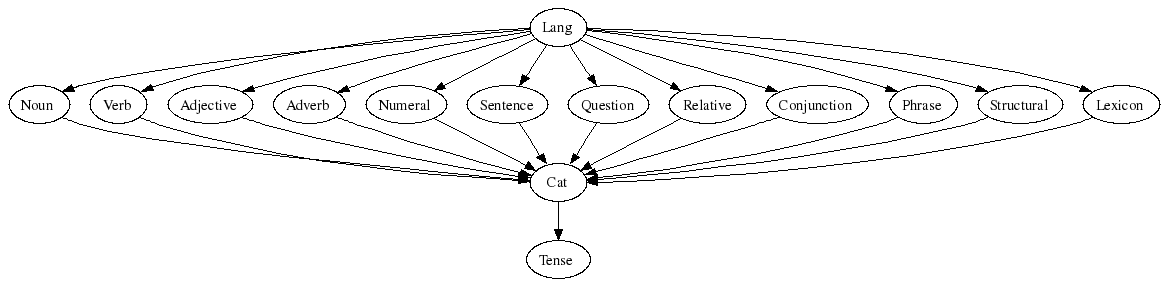
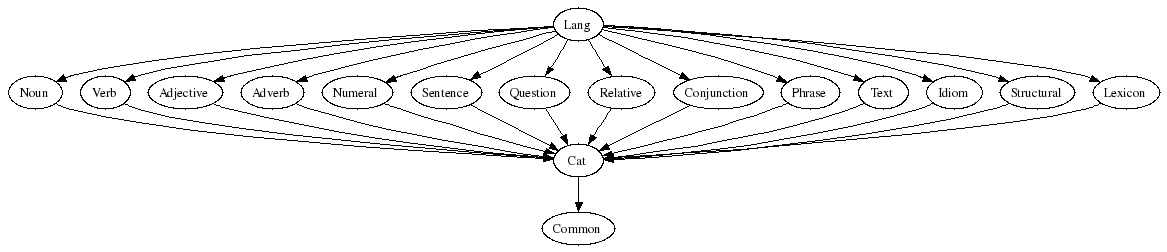
documenting new API structure

diff --git a/resource-1.0/doc/Resource-HOWTO.html b/resource-1.0/doc/Resource-HOWTO.html
@@ -7,7 +7,7 @@
 <P ALIGN="center"><CENTER><H1>Resource grammar writing HOWTO</H1>
 <FONT SIZE="4">
 <I>Author: Aarne Ranta &lt;aarne (at) cs.chalmers.se&gt;</I><BR>
-Last update: Tue Feb  7 09:22:12 2006
+Last update: Tue Feb 21 16:34:52 2006
 </FONT></CENTER>
 
 <P></P>
@@ -101,6 +101,8 @@ one of a small number of different types). Thus we have
 <LI><CODE>Relative</CODE>: construction of relative clauses
 <LI><CODE>Conjunction</CODE>: coordination of phrases
 <LI><CODE>Phrase</CODE>: construction of the major units of text and speech
+<LI><CODE>Text</CODE>: construction of texts as sequences of phrases
+<LI><CODE>Idiom</CODE>: idiomatic phrases such as existentials
 </UL>
 
 <A NAME="toc3"></A>
@@ -346,8 +348,8 @@ package.
 </P>
 <UL>
 <LI><CODE>ParamX</CODE>: parameter types used in many languages
-<LI><CODE>TenseX</CODE>: implementation of the logical tense, anteriority, 
-     and polarity parameters
+<LI><CODE>CommonX</CODE>: implementation of the categories $Text$ and $Phr$, as well as of
+     the logical tense, anteriority, and polarity parameters
 <LI><CODE>Coordination</CODE>: operations to deal with lists and coordination
 <LI><CODE>Prelude</CODE>: general-purpose operations on strings, records,
       truth values, etc.
@@ -566,13 +568,13 @@ are only found in the comments of the modules.
 <A NAME="toc15"></A>
 <H3>The category system</H3>
 <UL>
+<LI><A HREF="gfdoc/Common.html">Common</A>, <A HREF="../common/CommonX.gf">CommonX</A>
 <LI><A HREF="gfdoc/Cat.html">Cat</A>, <A HREF="gfdoc/CatGer.gf">CatGer</A>
 </UL>
 
 <A NAME="toc16"></A>
 <H3>Phrase category modules</H3>
 <UL>
-<LI><A HREF="gfdoc/Tense.html">Tense</A>, <A HREF="../german/TenseGer.gf">TenseGer</A>
 <LI><A HREF="gfdoc/Noun.html">Noun</A>, <A HREF="../german/NounGer.gf">NounGer</A>
 <LI><A HREF="gfdoc/Adjective.html">Adjective</A>, <A HREF="../german/AdjectiveGer.gf">AdjectiveGer</A>
 <LI><A HREF="gfdoc/Verb.html">Verb</A>, <A HREF="../german/VerbGer.gf">VerbGer</A>
@@ -583,6 +585,8 @@ are only found in the comments of the modules.
 <LI><A HREF="gfdoc/Relative.html">Relative</A>, <A HREF="../german/RelativeGer.gf">RelativeGer</A>
 <LI><A HREF="gfdoc/Conjunction.html">Conjunction</A>, <A HREF="../german/ConjunctionGer.gf">ConjunctionGer</A>
 <LI><A HREF="gfdoc/Phrase.html">Phrase</A>, <A HREF="../german/PhraseGer.gf">PhraseGer</A>
+<LI><A HREF="gfdoc/Text.html">Text</A>, <A HREF="../common/TextX.gf">TextX</A>
+<LI><A HREF="gfdoc/Idiom.html">Idiom</A>, <A HREF="../german/IdiomGer.gf">IdiomGer</A>
 <LI><A HREF="gfdoc/Lang.html">Lang</A>, <A HREF="../german/LangGer.gf">LangGer</A>
 </UL>
 

diff --git a/resource-1.0/doc/gfdoc/Common.html b/resource-1.0/doc/gfdoc/Common.html
@@ -2,19 +2,19 @@
 <HTML>
 <HEAD>
 <META NAME="generator" CONTENT="http://txt2tags.sf.net">
-<TITLE> Tense, Polarity, and Anteriority</TITLE>
+<TITLE> Infrastructure with common implementations.</TITLE>
 </HEAD><BODY BGCOLOR="white" TEXT="black">
-<P ALIGN="center"><CENTER><H1> Tense, Polarity, and Anteriority</H1>
+<P ALIGN="center"><CENTER><H1> Infrastructure with common implementations.</H1>
 <FONT SIZE="4">
 <I>Author: </I><BR>
-Last update: Tue Feb 21 16:23:54 2006
+Last update: Tue Feb 21 16:23:52 2006
 </FONT></CENTER>
 
 <P></P>
 <HR NOSHADE SIZE=1>
 <P></P>
   <UL>
-  <LI><A HREF="#toc1">Tense, Polarity, and Anteriority</A>
+  <LI><A HREF="#toc1">Infrastructure with common implementations.</A>
   </UL>
 
 <P></P>
@@ -26,19 +26,22 @@ gfdoc - a rudimentary GF document generator.
 (c) Aarne Ranta (<A HREF="mailto:aarne@cs.chalmers.se">aarne@cs.chalmers.se</A>) 2002 under GNU GPL.
 </P>
 <A NAME="toc1"></A>
-<H1>Tense, Polarity, and Anteriority</H1>
+<H1>Infrastructure with common implementations.</H1>
 <P>
 This module defines the abstract parameters of tense, polarity, and
-anteriority, which are used in <A HREF="Tensed.html">Tensed</A> to generate different
+anteriority, which are used in <A HREF="Phrase.html">Phrase</A> to generate different
 forms of sentences. Together they give 2 x 4 x 4 = 16 sentence forms.
 These tenses are defined for all languages in the library. More tenses
 can be defined in the language extensions, e.g. the <I>passé simple</I> of
 Romance languages.
 </P>
 <PRE>
-    abstract Tense = {
+    abstract Common = {
     
       cat
+        Text ;   -- text consisting of several phrases
+        Phr ;    -- phrase in a text                    e.g. "But be quiet my darling."
+    
         Pol ;
         Tense ;
         Ant ;
@@ -53,5 +56,5 @@ Romance languages.
 <P></P>
 
 <!-- html code generated by txt2tags 2.0 (http://txt2tags.sf.net) -->
-<!-- cmdline: txt2tags -thtml -\-toc abstract/Tense.txt -->
+<!-- cmdline: txt2tags -thtml -\-toc abstract/Common.txt -->
 </BODY></HTML>

diff --git a/resource-1.0/doc/index.html b/resource-1.0/doc/index.html
@@ -7,7 +7,7 @@
 <P ALIGN="center"><CENTER><H1>GF Resource Grammar Library v. 1.0</H1>
 <FONT SIZE="4">
 <I>Author: Aarne Ranta &lt;aarne (at) cs.chalmers.se&gt;</I><BR>
-Last update: Tue Feb  7 19:05:12 2006
+Last update: Tue Feb 21 16:23:46 2006
 </FONT></CENTER>
 
 <P></P>
@@ -47,8 +47,8 @@ The following figure gives the dependencies of these modules.
 The documentation of the individual modules:
 </P>
 <UL>
+<LI><A HREF="gfdoc/Common.html">Common</A>: abstract notions with language-indep. implementations
 <LI><A HREF="gfdoc/Cat.html">Cat</A>: the category system
-<LI><A HREF="gfdoc/Tense.html">Tense</A>: tense, anteriority, and polarity values
 <LI><A HREF="gfdoc/Noun.html">Noun</A>: construction of nouns and noun phrases
 <LI><A HREF="gfdoc/Adjective.html">Adjective</A>: construction of adjectival phrases
 <LI><A HREF="gfdoc/Verb.html">Verb</A>: construction of verb phrases
@@ -59,6 +59,8 @@ The documentation of the individual modules:
 <LI><A HREF="gfdoc/Relative.html">Relative</A>: construction of relative clauses
 <LI><A HREF="gfdoc/Conjunction.html">Conjunction</A>: coordination of phrases
 <LI><A HREF="gfdoc/Phrase.html">Phrase</A>: construction of the major units of text and speech
+<LI><A HREF="gfdoc/Text.html">Text</A>: construction of texts from phrases, using punctuation
+<LI><A HREF="gfdoc/Idiom.html">Idiom</A>: idiomatic phrases, such as existentials
 <LI><A HREF="gfdoc/Structural.html">Structural</A>: a lexicon of structural words
 <LI><A HREF="gfdoc/Lexicon.html">Lexicon</A>: a lexicon of other common words, for test purposes
 <LI><A HREF="gfdoc/Lang.html">Lang</A>: the main module comprising all the others

diff --git a/resource-1.0/doc/gfdoc/Cat.html b/resource-1.0/doc/gfdoc/Cat.html
@@ -7,7 +7,7 @@
 <P ALIGN="center"><CENTER><H1> The category system</H1>
 <FONT SIZE="4">
 <I>Author: </I><BR>
-Last update: Tue Feb  7 19:04:49 2006
+Last update: Tue Feb 21 16:23:52 2006
 </FONT></CENTER>
 
 <P></P>
@@ -40,8 +40,11 @@ gfdoc - a rudimentary GF document generator.
 </P>
 <A NAME="toc1"></A>
 <H1>The category system</H1>
+<P>
+Some categories are inherited from <A HREF="Common.html">Common</A>.
+</P>
 <PRE>
-    abstract Cat = Tense ** {
+    abstract Cat = Common ** {
     
       cat
 </PRE>
@@ -49,11 +52,10 @@ gfdoc - a rudimentary GF document generator.
 <A NAME="toc2"></A>
 <H2>Top-level units</H2>
 <P>
-Constructed in <A HREF="Phrase.html">Phrase</A>.
+Constructed in <A HREF="Text.html">Text</A>: <CODE>Text</CODE>.
+Constructed in <A HREF="Phrase.html">Phrase</A>: <CODE>Phr</CODE> and
 </P>
 <PRE>
-        Text ;  -- text consisting of several phrases
-        Phr ;   -- phrase in a text                    e.g. "But be quiet my darling."
         Utt ;   -- sentence, question, word...         e.g. "be quiet"
         Voc ;   -- vocative or "please"                e.g. "my darling"
 </PRE>
@@ -61,7 +63,8 @@ Constructed in <A HREF="Phrase.html">Phrase</A>.
 <A NAME="toc3"></A>
 <H2>Sentences and clauses</H2>
 <P>
-Constructed in <A HREF="Sentence.html">Sentence</A>.
+Constructed in <A HREF="Sentence.html">Sentence</A>, and also in
+<A HREF="Idiom.html">Idiom</A>.
 </P>
 <PRE>
         S ;     -- declarative sentence                e.g. "she lived here"

diff --git a/resource-1.0/doc/gfdoc/Text.html b/resource-1.0/doc/gfdoc/Text.html
@@ -2,58 +2,44 @@
 <HTML>
 <HEAD>
 <META NAME="generator" CONTENT="http://txt2tags.sf.net">
+<TITLE> Texts</TITLE>
 </HEAD><BODY BGCOLOR="white" TEXT="black">
+<P ALIGN="center"><CENTER><H1> Texts</H1>
 <FONT SIZE="4">
+<I>Author: </I><BR>
+Last update: Tue Feb 21 16:23:54 2006
 </FONT></CENTER>
 
 <P></P>
 <HR NOSHADE SIZE=1>
 <P></P>
+  <UL>
+  <LI><A HREF="#toc1">Texts</A>
+  </UL>
+
 <P></P>
 <HR NOSHADE SIZE=1>
 <P></P>
-<P>
-Author: 
-Last update: Tue Feb 21 16:23:56 2006
-</P>
 <P>
 Produced by 
 gfdoc - a rudimentary GF document generator.
 (c) Aarne Ranta (<A HREF="mailto:aarne@cs.chalmers.se">aarne@cs.chalmers.se</A>) 2002 under GNU GPL.
 </P>
-<P>
-==
-</P>
+<A NAME="toc1"></A>
+<H1>Texts</H1>
 <PRE>
-    abstract Multimodal =
-      Noun,
-</PRE>
-<P></P>
-<P>
-Verb, 
-</P>
-<PRE>
-      Adjective,
-      Adverb,
-      Numeral,
-</PRE>
-<P></P>
-<P>
-Sentence, 
-Question,
-Relative,
-Conjunction,
-Phrase,
-Tensed,
-</P>
-<PRE>
-      Structural,
-      Demonstrative,
-      Lexicon
-      ** {} ;
+    abstract Text = Cat ** {
+    
+      fun
+        TEmpty : Text ;
+        TFullStop : Phr -&gt; Text -&gt; Text ;
+        TQuestMark : Phr -&gt; Text -&gt; Text ;
+        TExclMark : Phr -&gt; Text -&gt; Text ;
+    
+    }
 </PRE>
 <P></P>
 
 <!-- html code generated by txt2tags 2.0 (http://txt2tags.sf.net) -->
-<!-- cmdline: txt2tags -thtml -\-toc multimodal/Multimodal.txt -->
+<!-- cmdline: txt2tags -thtml -\-toc abstract/Text.txt -->
 </BODY></HTML>

diff --git a/resource-1.0/doc/gfdoc/Idiom.html b/resource-1.0/doc/gfdoc/Idiom.html
@@ -1,0 +1,52 @@
+<!DOCTYPE HTML PUBLIC "-//W3C//DTD HTML 4.0 Transitional//EN">
+<HTML>
+<HEAD>
+<META NAME="generator" CONTENT="http://txt2tags.sf.net">
+<TITLE> Idiomatic expressions</TITLE>
+</HEAD><BODY BGCOLOR="white" TEXT="black">
+<P ALIGN="center"><CENTER><H1> Idiomatic expressions</H1>
+<FONT SIZE="4">
+<I>Author: </I><BR>
+Last update: Tue Feb 21 16:23:52 2006
+</FONT></CENTER>
+
+<P></P>
+<HR NOSHADE SIZE=1>
+<P></P>
+  <UL>
+  <LI><A HREF="#toc1">Idiomatic expressions</A>
+  </UL>
+
+<P></P>
+<HR NOSHADE SIZE=1>
+<P></P>
+<P>
+Produced by 
+gfdoc - a rudimentary GF document generator.
+(c) Aarne Ranta (<A HREF="mailto:aarne@cs.chalmers.se">aarne@cs.chalmers.se</A>) 2002 under GNU GPL.
+</P>
+<A NAME="toc1"></A>
+<H1>Idiomatic expressions</H1>
+<PRE>
+    abstract Idiom = Cat ** {
+</PRE>
+<P></P>
+<P>
+This module defines constructions that are formed in fixed ways,
+often different even in closely related languages.
+</P>
+<PRE>
+      fun
+        ExistNP   : NP -&gt; Cl ;    -- there is a house
+        ImpersCl  : VP -&gt; Cl ;    -- it rains
+        GenericCl : VP -&gt; Cl ;    -- one sleeps
+    
+        ProgrVP   : VP -&gt; VP ;    -- sleeping
+    
+    }
+</PRE>
+<P></P>
+
+<!-- html code generated by txt2tags 2.0 (http://txt2tags.sf.net) -->
+<!-- cmdline: txt2tags -thtml -\-toc abstract/Idiom.txt -->
+</BODY></HTML>

diff --git a/resource-1.0/doc/gfdoc/Noun.html b/resource-1.0/doc/gfdoc/Noun.html
@@ -7,7 +7,7 @@
 <P ALIGN="center"><CENTER><H1> The construction of nouns, noun phrases, and determiners</H1>
 <FONT SIZE="4">
 <I>Author: </I><BR>
-Last update: Tue Feb  7 19:04:50 2006
+Last update: Tue Feb 21 16:23:53 2006
 </FONT></CENTER>
 
 <P></P>
@@ -59,7 +59,7 @@ Pronouns are defined in the module <A HREF="Structural.html">Structural</A>.
 A noun phrase already formed can be modified by a Predeterminer.
 </P>
 <PRE>
-       PredetNP : Predet -&gt; NP -&gt; NP; -- only the man 
+        PredetNP : Predet -&gt; NP -&gt; NP; -- only the man 
 </PRE>
 <P></P>
 <A NAME="toc3"></A>

diff --git a/resource-1.0/doc/gfdoc/ParadigmsEng.html b/resource-1.0/doc/gfdoc/ParadigmsEng.html
@@ -43,7 +43,7 @@
 <P></P>
 <P>
 Author: 
-Last update: Tue Feb  7 19:04:51 2006
+Last update: Tue Feb 21 16:23:54 2006
 </P>
 <P>
 Produced by 
@@ -54,7 +54,7 @@ gfdoc - a rudimentary GF document generator.
 ==
 </P>
 <P>
-# -path=.:../abstract:../../prelude
+# -path=.:../abstract:../../prelude:../common
 </P>
 <A NAME="toc1"></A>
 <H1>English Lexical Paradigms</H1>
@@ -109,7 +109,6 @@ To abstract over gender names, we define the following identifiers.
       human     : Gender ;
       nonhuman  : Gender ;
       masculine : Gender ;
-      feminite  : Gender ;
 </PRE>
 <P></P>
 <P>

diff --git a/resource-1.0/doc/gfdoc/ParadigmsFin.html b/resource-1.0/doc/gfdoc/ParadigmsFin.html
@@ -28,7 +28,7 @@
 <P></P>
 <P>
 Author: 
-Last update: Tue Feb  7 19:04:51 2006
+Last update: Tue Feb 21 16:23:55 2006
 </P>
 <P>
 Produced by 
@@ -187,14 +187,6 @@ Examples: <I>talo</I>, <I>kukko</I>, <I>huippu</I>, <I>koira</I>, <I>kukka</I>, 
 </P>
 <PRE>
       nKukko : (kukko,kukon,kukkoja : Str) -&gt; N ;
-</PRE>
-<P></P>
-<P>
-For convenience, we define 1-argument paradigms as producing the
-nonhuman gender; the following function changes this:
-</P>
-<PRE>
-      humanN : N -&gt; N ;
 </PRE>
 <P></P>
 <P>
